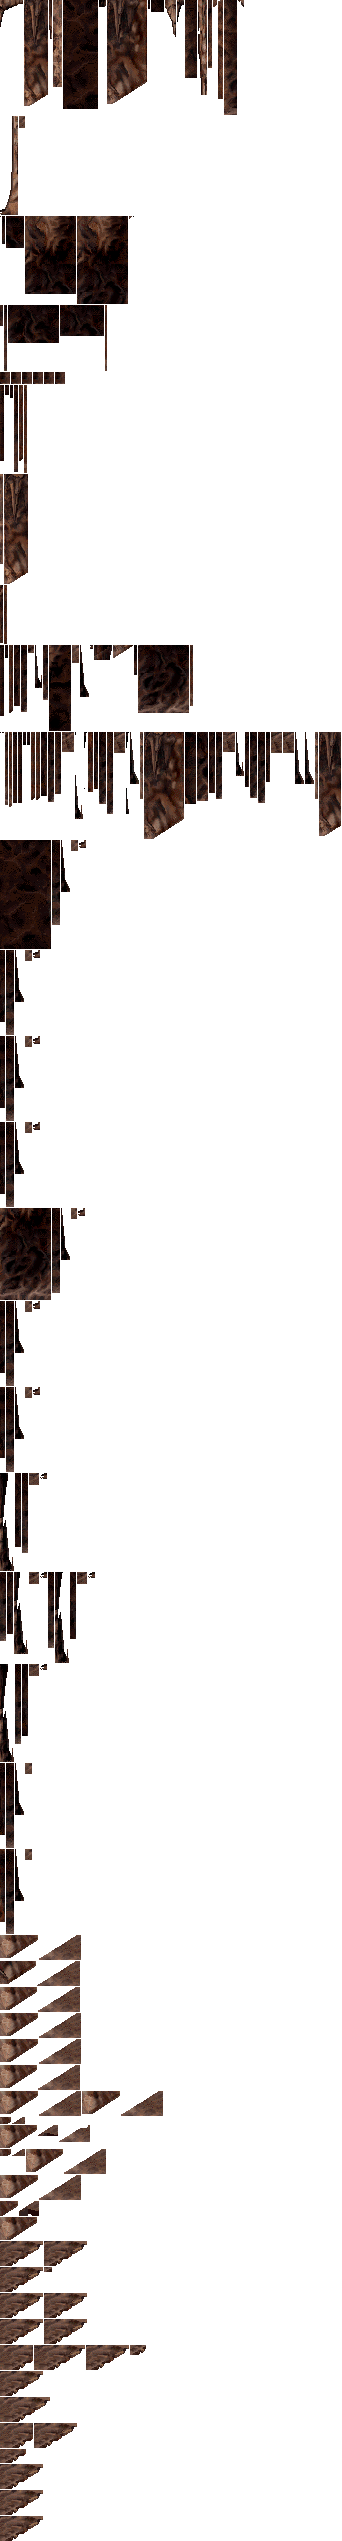
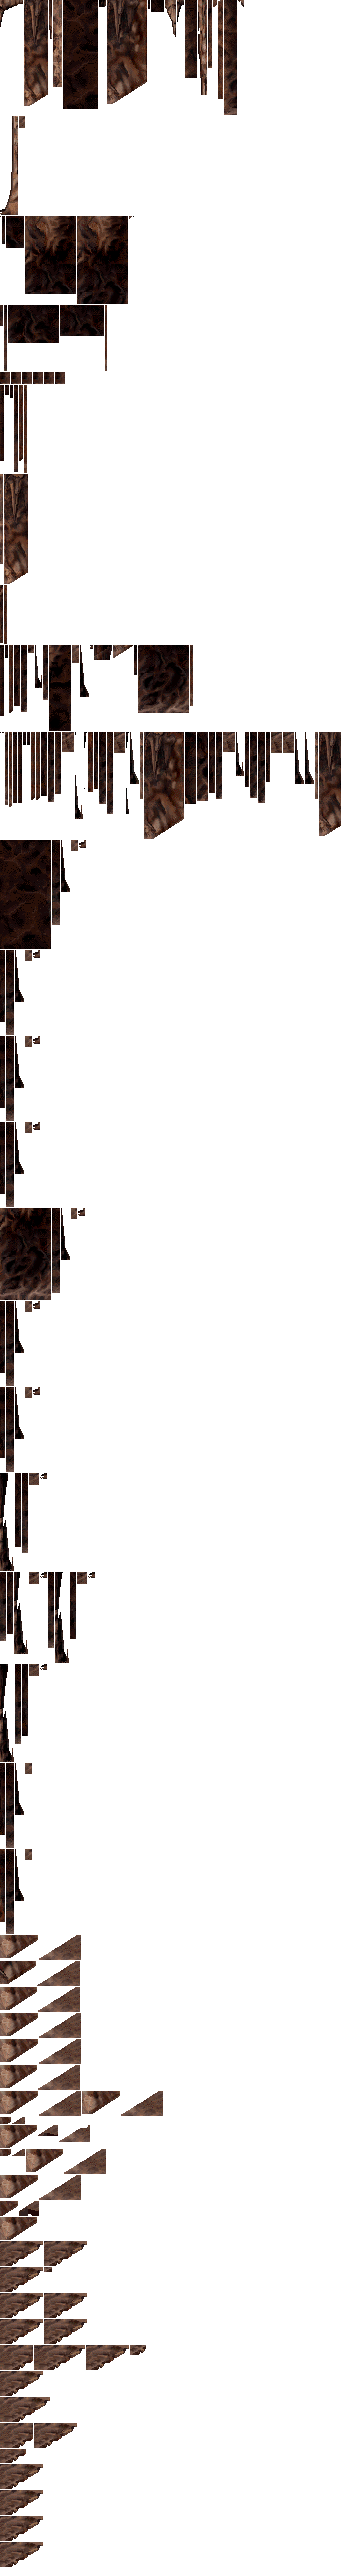
Blend approved right floor tips in level 3 room 14

Changed region(s): [[0.0, 0.0622, 1.0, 0.9949], [0.0585, 0.0311, 0.0877, 0.0622]]

diff --git a/tests/test_cavern_retouch.py b/tests/test_cavern_retouch.py
@@ -54,8 +54,8 @@ class BundledCavernRetouchTests(unittest.TestCase):
 
     def test_bundled_variants_have_valid_scope_and_crop_sizes(self):
         assets = retouch_assets()
-        self.assertEqual(len(assets), 97)
-        self.assertEqual({key[0] for key in assets}, {0, 1, 2, 3, 4, 5, 6, 7, 8, 9, 10, 11, 12, 14, 15, 20, 23, 25, 27, 29, 31})
+        self.assertEqual(len(assets), 98)
+        self.assertEqual({key[0] for key in assets}, {0, 1, 2, 3, 4, 5, 6, 7, 8, 9, 10, 11, 12, 13, 14, 15, 20, 23, 25, 27, 29, 31})
         for key, (record, image) in assets.items():
             with self.subTest(key=key):
                 x1, y1, x2, y2 = record['source_rect']
@@ -68,7 +68,7 @@ class BundledCavernRetouchTests(unittest.TestCase):
     def test_unaffected_rooms_do_not_even_load_retouch_assets(self):
         source = Image.new('RGBA', (5, 5), 'red')
         with patch('pop2.cavern_retouch.retouch_assets', side_effect=AssertionError('Unexpected load')):
-            for room in set(range(32)) - {0, 1, 2, 3, 4, 5, 6, 7, 8, 9, 10, 11, 12, 14, 15, 20, 23, 25, 27, 29, 31}:
+            for room in set(range(32)) - {0, 1, 2, 3, 4, 5, 6, 7, 8, 9, 10, 11, 12, 13, 14, 15, 20, 23, 25, 27, 29, 31}:
                 self.assertIs(retouched_sprite(room, [], source), source)
 
     def test_unmatched_sources_and_other_shape_libraries_are_untouched(self):
@@ -306,7 +306,7 @@ class CavernRetouchTests(PreviousArtworkMixin, unittest.TestCase):
         self.assertEqual(closed.crop((185, 135, 281, 220)).tobytes(), native.crop((185, 135, 281, 220)).tobytes())
 
     def test_unapproved_rooms_remain_pixel_identical(self):
-        for room in set(range(32)) - {0, 1, 2, 3, 4, 5, 6, 7, 8, 9, 10, 11, 12, 14, 15, 20, 23, 25, 27, 29, 31}:
+        for room in set(range(32)) - {0, 1, 2, 3, 4, 5, 6, 7, 8, 9, 10, 11, 12, 13, 14, 15, 20, 23, 25, 27, 29, 31}:
             with self.subTest(room=room):
                 native, edited = cavern_room(room), cavern_room(room, retouched=True)
                 self.assertEqual(native.background.tobytes(), edited.background.tobytes())
@@ -442,17 +442,17 @@ class CavernRetouchTests(PreviousArtworkMixin, unittest.TestCase):
         game = LevelRenderer(level, preload_room=False)
         reference = LevelRenderer(level, preload_room=False, retouch_caverns=False)
         for room in range(32):
-            expected = cavern_room(room, animated=True, retouched=room in (0, 1, 2, 3, 4, 5, 6, 7, 8, 9, 10, 11, 12, 14, 15, 20, 23, 25, 27, 29, 31))
+            expected = cavern_room(room, animated=True, retouched=room in (0, 1, 2, 3, 4, 5, 6, 7, 8, 9, 10, 11, 12, 13, 14, 15, 20, 23, 25, 27, 29, 31))
             self.assertEqual(game.room(room).flattened().tobytes(), expected.flattened().tobytes())
             self.assertEqual(reference.room(room).flattened().tobytes(), cavern_room(room, animated=True).flattened().tobytes())
 
     def test_retained_pixels_do_not_propagate_retouch_into_adjacent_rooms(self):
         level = LevelDefinition.read(load_resource_file('Prince.rsrc'), 3)
         terrain = LevelMap(level.data)
-        for source in (0, 1, 2, 3, 4, 5, 6, 7, 8, 9, 10, 11, 12, 14, 15, 20, 23, 25, 27, 29, 31):
+        for source in (0, 1, 2, 3, 4, 5, 6, 7, 8, 9, 10, 11, 12, 13, 14, 15, 20, 23, 25, 27, 29, 31):
             for direction in ('left', 'right', 'up', 'down'):
                 destination = terrain.neighbor(source, direction)
-                if destination is None or destination in (0, 1, 2, 3, 4, 5, 6, 7, 8, 9, 10, 11, 12, 14, 15, 20, 23, 25, 27, 29, 31):
+                if destination is None or destination in (0, 1, 2, 3, 4, 5, 6, 7, 8, 9, 10, 11, 12, 13, 14, 15, 20, 23, 25, 27, 29, 31):
                     continue
                 with self.subTest(source=source, destination=destination):
                     game = LevelRenderer(level, preload_room=False)

diff --git a/pop2/cavern_retouch.py b/pop2/cavern_retouch.py
@@ -86,7 +86,7 @@ def retouched_door_sprite(level, room, command, source):
 
 
 def retouched_sprite(room, command, source, *, level_number=3):
-    approved = (room in (0, 1, 2, 3, 4, 5, 6, 7, 8, 9, 10, 11, 12, 14, 15, 20, 23, 25, 27, 29, 31) if level_number == 3
+    approved = (room in (0, 1, 2, 3, 4, 5, 6, 7, 8, 9, 10, 11, 12, 13, 14, 15, 20, 23, 25, 27, 29, 31) if level_number == 3
                 else room in (4, 5, 11, 12, 13, 17, 21, 22, 25, 27) if level_number == 4
                 else level_number == 5 and room in (1, 5, 6, 8, 10, 12, 13, 14, 15, 16, 18, 21, 22, 24))
     if not approved or len(command) < 8 or command[7] != 4:

diff --git a/docs/CAVERN_ARTWORK.md b/docs/CAVERN_ARTWORK.md
@@ -360,3 +360,4 @@ artwork; no original golden or mask assertion is discarded.
[4 lines of base64/hex data omitted]
